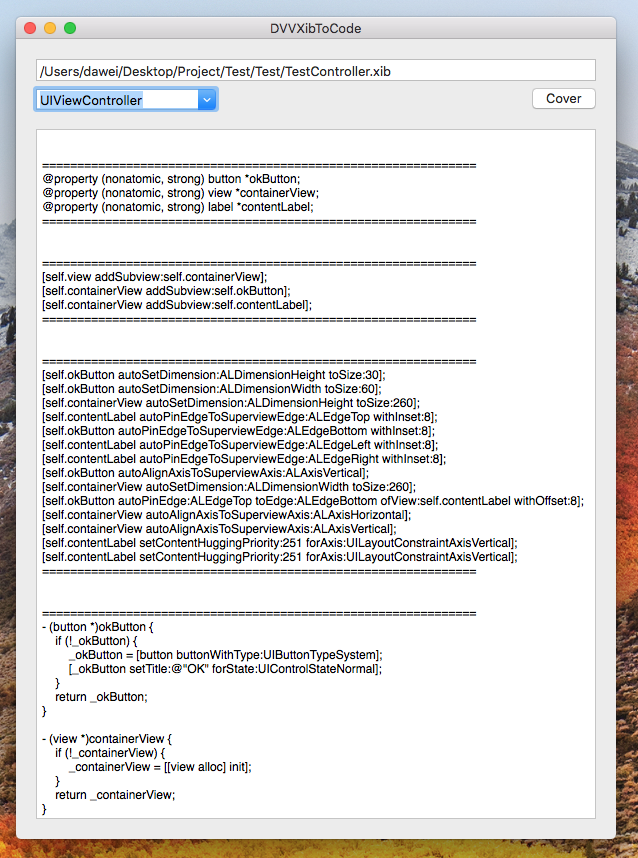
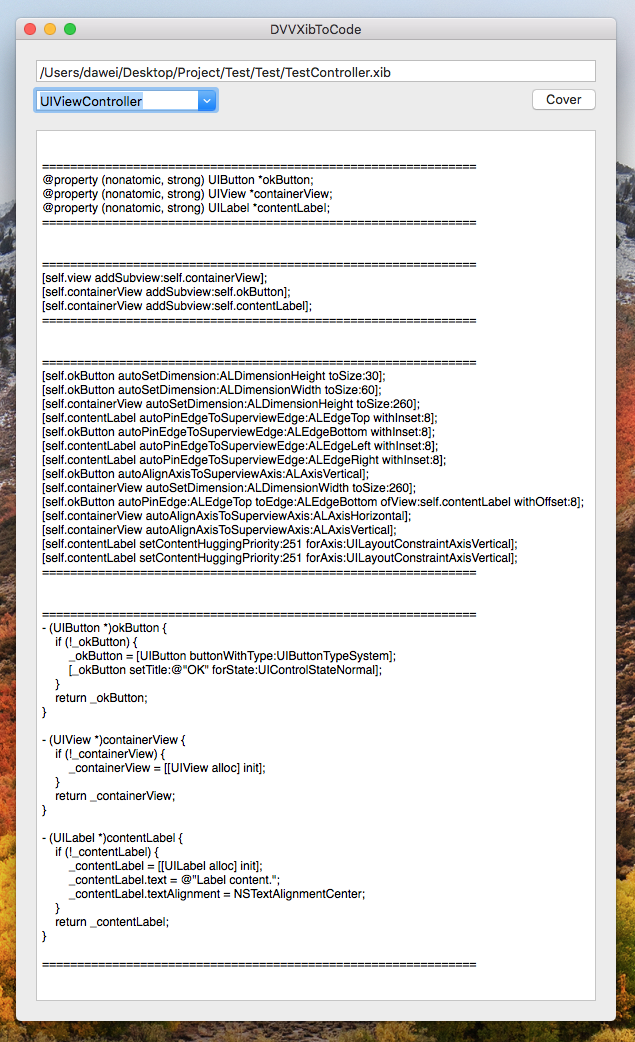
1. 完善文档； 2. 处理Class Name；

diff --git a/DVVXibToCode/DVVXibToCode/Cover.m b/DVVXibToCode/DVVXibToCode/Cover.m
@@ -151,7 +151,7 @@ static NSString * const kUITableViewStyle = @"_style";
     
     [self.viewsInfo enumerateKeysAndObjectsUsingBlock:^(NSString * _Nonnull key, NSDictionary<NSString *,id> * _Nonnull obj, BOOL * _Nonnull stop) {
         if (!JudgeIsRoot(obj[kViewUserLabel])) {
-            [_propertiesCode appendFormat:@"@property (nonatomic, strong) %@ *%@;\n", obj[kViewType], obj[kViewUserLabel]];
+            [_propertiesCode appendFormat:@"@property (nonatomic, strong) %@ *%@;\n", ViewTypeToClassName(obj[kViewType]), obj[kViewUserLabel]];
         }
     }];
 }
@@ -422,22 +422,22 @@ static NSString * const kUITableViewStyle = @"_style";
         if (!JudgeIsRoot(obj[kViewUserLabel])) {
             NSMutableString *mstr = [NSMutableString stringWithString:[self methodBeginLinesWithViewInfo:obj]];
             if ([obj[kViewType] isEqualToString:kViewTypeUIView]) {
-                [mstr appendFormat:@"        _%@ = [[%@ alloc] init];\n", obj[kViewUserLabel], obj[kViewType]];
+                [mstr appendFormat:@"        _%@ = [[%@ alloc] init];\n", obj[kViewUserLabel], ViewTypeToClassName(obj[kViewType])];
             } else if ([obj[kViewType] isEqualToString:kViewTypeUILabel] ||
                        [obj[kViewType] isEqualToString:kViewTypeUITextField] ||
                        [obj[kViewType] isEqualToString:kViewTypeUITextView]) {
                 if ([obj[kViewType] isEqualToString:kViewTypeUILabel]) {
-                    [mstr appendFormat:@"        _%@ = [[%@ alloc] init];\n", obj[kViewUserLabel], obj[kViewType]];
+                    [mstr appendFormat:@"        _%@ = [[%@ alloc] init];\n", obj[kViewUserLabel], ViewTypeToClassName(obj[kViewType])];
                     if (obj[kText]) {
                         [mstr appendFormat:@"        _%@.text = @\"%@\";\n", obj[kViewUserLabel], obj[kText]];
                     }
                 } else if ([obj[kViewType] isEqualToString:kViewTypeUITextField]) {
-                    [mstr appendFormat:@"        _%@ = [[%@ alloc] init];\n", obj[kViewUserLabel], obj[kViewType]];
+                    [mstr appendFormat:@"        _%@ = [[%@ alloc] init];\n", obj[kViewUserLabel], ViewTypeToClassName(obj[kViewType])];
                     if (obj[kTextFieldPlaceholder]) {
                         [mstr appendFormat:@"        _%@.placeholder = @\"%@\";\n", obj[kViewUserLabel], obj[kTextFieldPlaceholder]];
                     }
                 } else if ([obj[kViewType] isEqualToString:kViewTypeUITextView]) {
-                    [mstr appendFormat:@"        _%@ = [[%@ alloc] init];\n", obj[kViewUserLabel], obj[kViewType]];
+                    [mstr appendFormat:@"        _%@ = [[%@ alloc] init];\n", obj[kViewUserLabel], ViewTypeToClassName(obj[kViewType])];
                     if (obj[kTextViewString]) {
                         [mstr appendFormat:@"        _%@.text = @\"%@\";\n", obj[kViewUserLabel], obj[kTextViewString][kTextViewText]];
                     }
@@ -446,14 +446,14 @@ static NSString * const kUITableViewStyle = @"_style";
                     [mstr appendFormat:@"        _%@.textAlignment = %@;\n", obj[kViewUserLabel], obj[kTextAlignment]];
                 }
             } else if ([obj[kViewType] isEqualToString:kViewTypeUIButton]) {
-                [mstr appendFormat:@"        _%@ = [%@ buttonWithType:UIButtonTypeSystem];\n", obj[kViewUserLabel], obj[kViewType]];
+                [mstr appendFormat:@"        _%@ = [%@ buttonWithType:UIButtonTypeSystem];\n", obj[kViewUserLabel], ViewTypeToClassName(obj[kViewType])];
                 if (obj[kUIButtonState]) {
                     if (obj[kUIButtonState][kUIButtonTitle]) {
                         [mstr appendFormat:@"        [_%@ setTitle:@\"%@\" forState:UIControlStateNormal];\n", obj[kViewUserLabel], obj[kUIButtonState][kUIButtonTitle]];
                     }
                 }
             } else if ([obj[kViewType] isEqualToString:kViewTypeUIImageView]) {
-                [mstr appendFormat:@"        _%@ = [[%@ alloc] init];\n", obj[kViewUserLabel], obj[kViewType]];
+                [mstr appendFormat:@"        _%@ = [[%@ alloc] init];\n", obj[kViewUserLabel], ViewTypeToClassName(obj[kViewType])];
                 if (obj[kUIImageViewImage]) {
                     if (obj[kUIImageViewImage]) {
                         [mstr appendFormat:@"        _%@.image = [UIImage imageNamed:@\"%@\"];\n", obj[kViewUserLabel], obj[kUIImageViewImage]];
@@ -462,7 +462,7 @@ static NSString * const kUITableViewStyle = @"_style";
             } else if ([obj[kViewType] isEqualToString:kViewTypeUITableView]) {
                 [mstr appendFormat:@"        _%@ = [[UITableView alloc] initWithFrame:CGRectZero style:%@];\n", obj[kViewUserLabel], obj[kUITableViewStyle]];
             } else if ([obj[kViewType] isEqualToString:kViewTypeUISwitch]) {
-                [mstr appendFormat:@"        _%@ = [[%@ alloc] init];\n", obj[kViewUserLabel], obj[kViewType]];
+                [mstr appendFormat:@"        _%@ = [[%@ alloc] init];\n", obj[kViewUserLabel], ViewTypeToClassName(obj[kViewType])];
             }
             [mstr appendFormat:@"%@\n", [self methodEndLinesWithViewInfo:obj]];
             [self.gettersCode appendFormat:@"%@", mstr];
@@ -473,7 +473,7 @@ static NSString * const kUITableViewStyle = @"_style";
 - (NSString *)methodBeginLinesWithViewInfo:(NSDictionary<NSString *, id> *)viewInfo {
     
     NSMutableString *mstr = [NSMutableString string];
-    NSString *first = [NSString stringWithFormat:@"- (%@ *)%@ {", viewInfo[kViewType], viewInfo[kViewUserLabel]];
+    NSString *first = [NSString stringWithFormat:@"- (%@ *)%@ {", ViewTypeToClassName(viewInfo[kViewType]), viewInfo[kViewUserLabel]];
     NSString *second = [NSString stringWithFormat:@"    if (!_%@) {", viewInfo[kViewUserLabel]];
     [mstr appendFormat:@"%@\n", first];
     [mstr appendFormat:@"%@\n", second];
@@ -523,6 +523,27 @@ static BOOL (^JudgeIsRoot)(NSString *obj) = ^(NSString *obj) {
     } else {
         return NO;
     }
+};
+
+static NSString * (^ViewTypeToClassName)(NSString *viewType) = ^(NSString *viewType) {
+    if ([viewType isEqualToString:kViewTypeUIView]) {
+        return @"UIView";
+    } else if ([viewType isEqualToString:kViewTypeUILabel]) {
+        return @"UILabel";
+    } else if ([viewType isEqualToString:kViewTypeUITextField]) {
+        return @"UITextField";
+    } else if ([viewType isEqualToString:kViewTypeUITextView]) {
+        return @"UITextView";
+    } else if ([viewType isEqualToString:kViewTypeUIButton]) {
+        return @"UIButton";
+    } else if ([viewType isEqualToString:kViewTypeUIImageView]) {
+        return @"UIImageView";
+    } else if ([viewType isEqualToString:kViewTypeUITableView]) {
+        return @"UITableView";
+    } else if ([viewType isEqualToString:kViewTypeUISwitch]) {
+        return @"UISwitch";
+    }
+    return @"UntreatedViewType"; // 未处理的视图类型
 };
 
 #pragma mark -

diff --git a/README.md b/README.md
@@ -36,6 +36,7 @@ xib文件注意事项
 - UIButton：Type(Custom、System)，State Config(Default)，Title(Plain)
 - UIImageView：Image
 - UITableView：Style(Plain、Grouped)
+- UISwitch：暂无
 
 自动生成效果
 ----------
